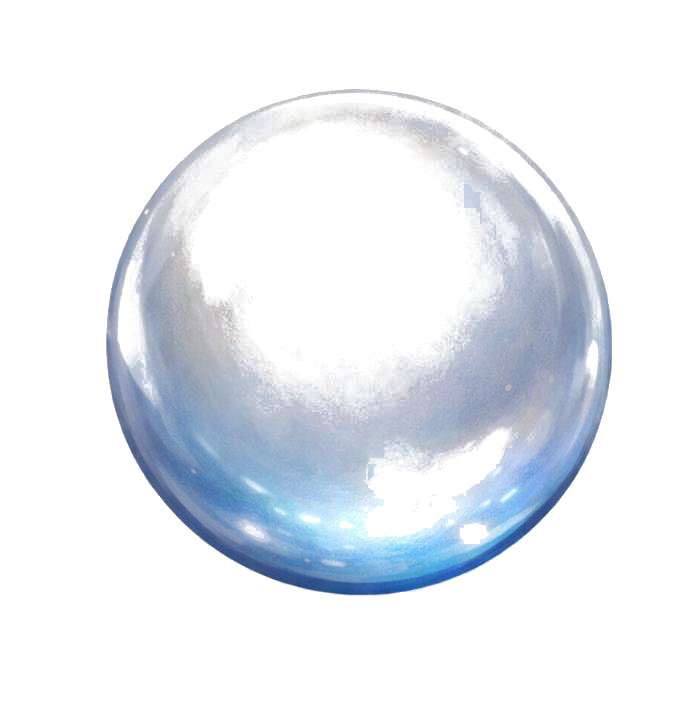
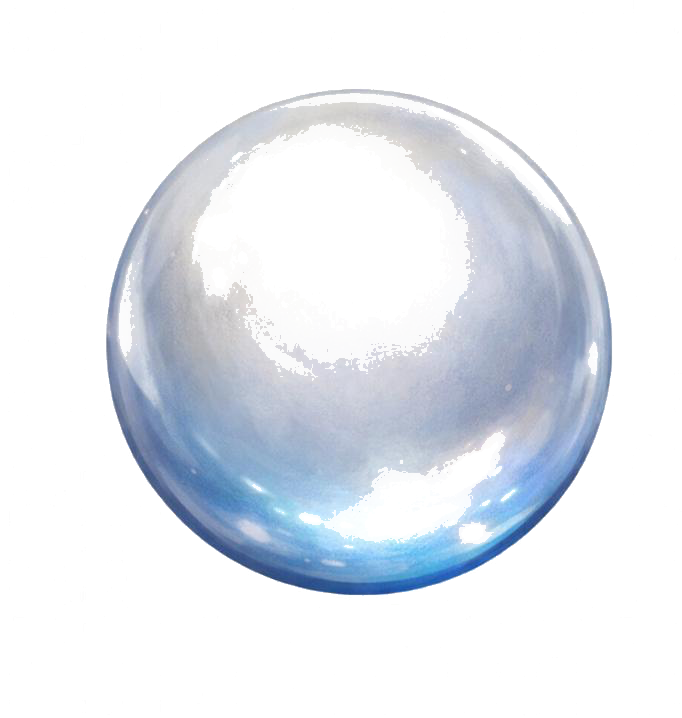
Refine ball cutout and boost visibility

diff --git a/thimbles-miniapp/src/App.css b/thimbles-miniapp/src/App.css
@@ -224,10 +224,10 @@ input {
 }
 
 .ball-image {
-  width: 30px;
-  height: 30px;
+  width: 38px;
+  height: 38px;
   object-fit: contain;
-  filter: drop-shadow(0 6px 10px rgba(0, 0, 0, 0.28));
+  filter: brightness(1.08) saturate(1.12) drop-shadow(0 0 8px rgba(123, 194, 255, 0.28)) drop-shadow(0 6px 10px rgba(0, 0, 0, 0.28));
 }
 
 .revealed-ball {
@@ -460,8 +460,8 @@ input {
   }
 
   .ball-image {
-    width: 24px;
-    height: 24px;
+    width: 30px;
+    height: 30px;
   }
 
   .result-burst {
@@ -496,8 +496,8 @@ input {
   }
 
   .ball-image {
-    width: 28px;
-    height: 28px;
+    width: 34px;
+    height: 34px;
   }
 }
 
@@ -543,7 +543,7 @@ input {
   }
 
   .ball-image {
-    width: 32px;
-    height: 32px;
+    width: 40px;
+    height: 40px;
   }
 }
